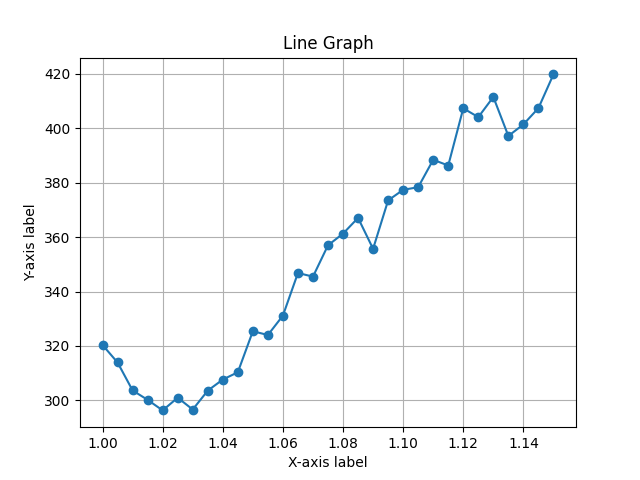
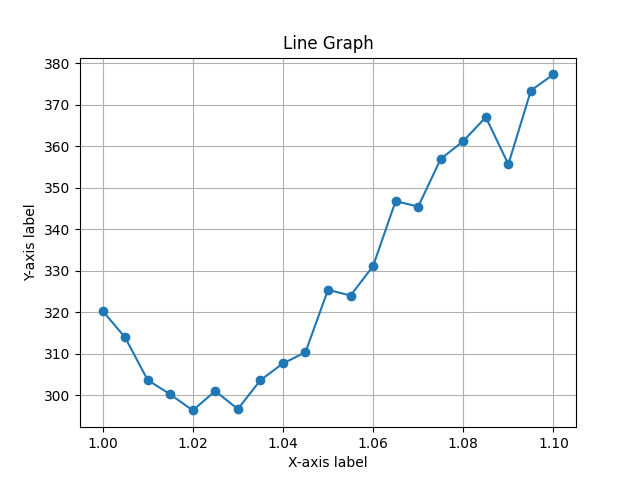
period of 0.5 for r20 if set to 1.0 -> 1.1

diff --git a/reformat/sim_results/r20_factor_test/graph_factor.py b/reformat/sim_results/r20_factor_test/graph_factor.py
@@ -11,7 +11,6 @@ def analyze_csv(csv_file):
             sum_of_averages[str(round(factor,3))] = 0
             factor = factor + 0.005
             i = i+1
-        print(sum_of_averages)
         
         for line_number, line in enumerate(reader, start=2):  # Start at line 2 (since we already read the header)
             # Example analysis: Counting the number of columns in each line
@@ -20,10 +19,10 @@ def analyze_csv(csv_file):
             avg_time = float(line[5])
             trip_size = float(line[4])
             factor = str(line[6])
-            print('line number:' + str(line_number))
-            print('factor:' + str(factor))
             sum_of_averages[factor] = sum_of_averages[factor] + avg_time
 
+
+        print(sum_of_averages)
 
         # print(sum_of_averages)
         for key in sum_of_averages:
@@ -46,12 +45,12 @@ def analyze_csv(csv_file):
 
         # Displaying the graph
         plt.grid(True)
-        plt.savefig('r20_p1_factor.png')  # Saving the plot as a PNG file
+        plt.savefig('r20_p05_factor.png')  # Saving the plot as a PNG file
         plt.show()
 
             
             
 # Usage example
 if __name__ == "__main__":
-    csv_file_path = "r20_p1_factor.csv"  # Provide the path to your CSV file here
+    csv_file_path = "r20_p05_factor.csv"  # Provide the path to your CSV file here
     analyze_csv(csv_file_path)
